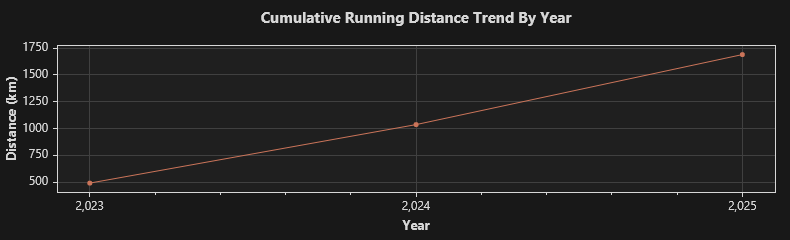
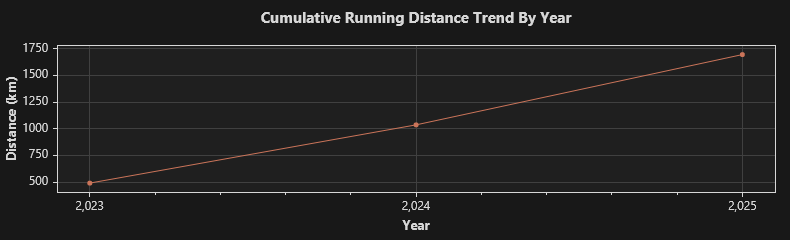
2025/12/11 跑步 5.37 公里

diff --git a/trend.md b/trend.md
@@ -1,4 +1,4 @@
-### Total: 284 days, 1689.42 km.
+### Total: 285 days, 1694.79 km.
 
 
 ![Monthly](https://github.com/prime167/MyRunningLog/blob/main/data/CumulativeTrendByMonth.png)
